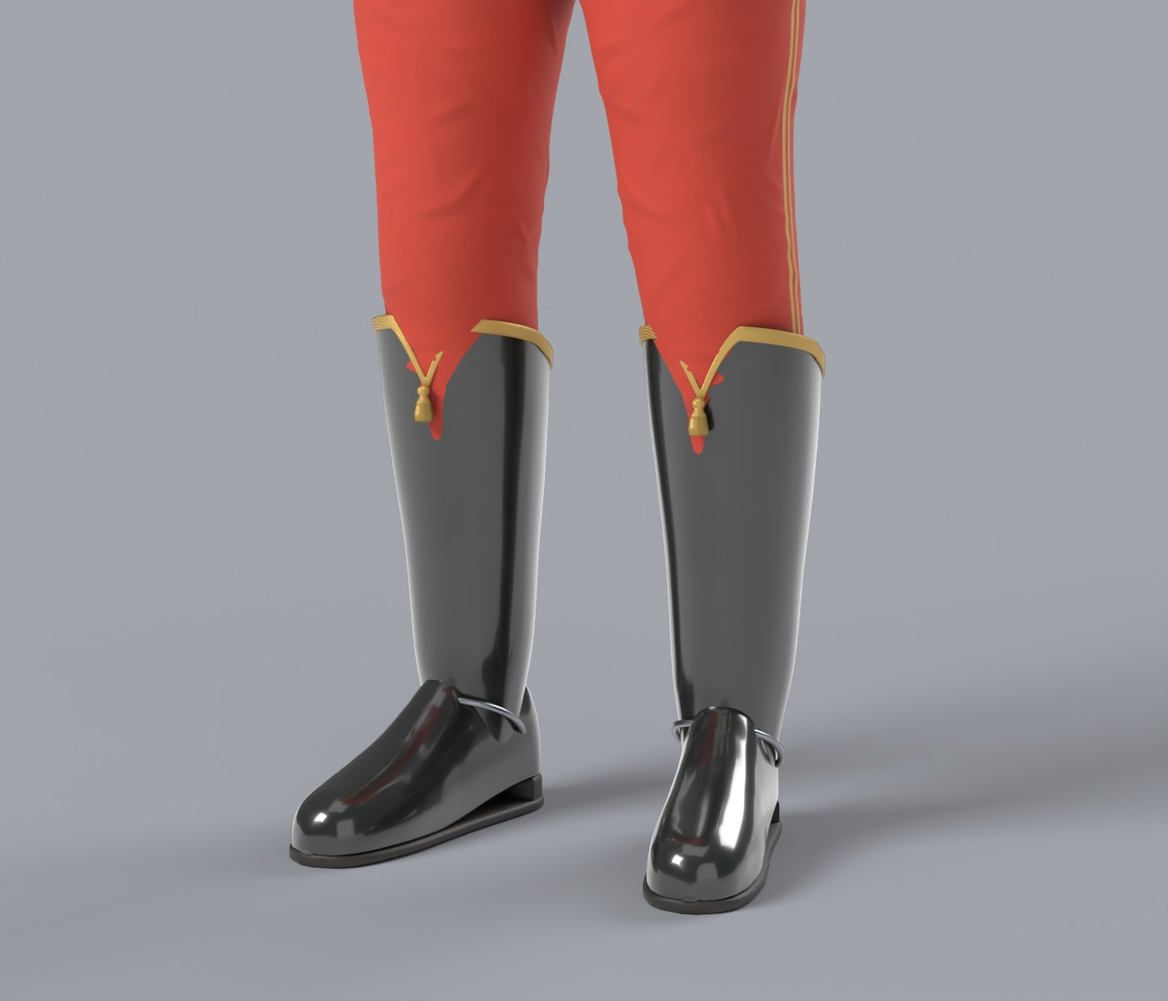
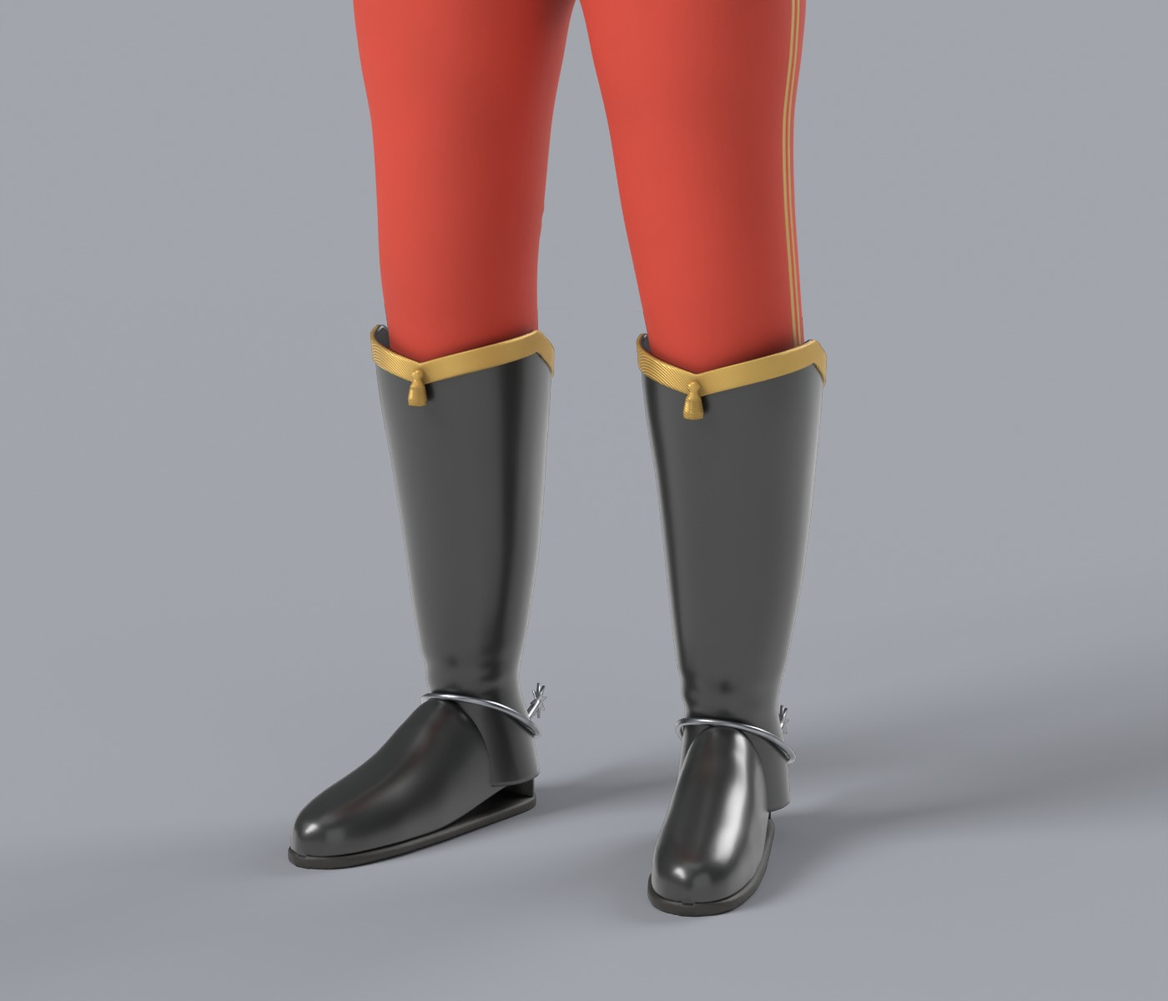
art(#33): guard officer -- correction round pictures, mesh stats and provenance: one deep fur cuff per empty sleeve, all 72 parts closed; IoU 0.893 / 0.882 / 0.906 (the sheet's outline wants the stand-off this round removed); before_after.jpg

diff --git a/art/characters/french-imperial-guard/previews/index.html b/art/characters/french-imperial-guard/previews/index.html
@@ -28,8 +28,16 @@
 
   <h2>Reference sheet vs model</h2>
   <p>Top: the reference (Gemini-generated turnaround). Bottom: the model re-shot with orthographic cameras in the sheet's own framing.
-     Silhouette IoU front <b id="iou-f">0.910</b>, side <b id="iou-s">0.901</b>, back <b id="iou-b">0.904</b>.</p>
+     Silhouette IoU front <b id="iou-f">0.893</b>, side <b id="iou-s">0.882</b>, back <b id="iou-b">0.906</b>
+     (stage 1: 0.910 / 0.901 / 0.904; the sheet's outline carries a pelisse standing several centimetres off the body, which this
+     round removed on purpose -- see <code>PROVENANCE.md</code>).</p>
   <figure><img src="sheet_vs_reference.png" alt="Reference sheet above the model's re-shoot"><figcaption>Reference above the model</figcaption></figure>
+  <h2>Correction round: stage 1 against now</h2>
+  <p>The one correction round after the stage-1 review (<code>review_stage1.md</code>): the pelisse rebuilt to lie on the body (its
+     surface carried onto the dolman's own trunk and sleeve), soft feather plumes, a front-only peak, boots, fur, sash, cuffs and
+     chevrons, then the shako's ornament, the back and chest cords, hair and the breeches' knots.</p>
+  <figure><img src="before_after.jpg" alt="Stage 1 above the correction round"><figcaption>Top: stage 1 (commit ac3e2ab). Bottom: after the correction round</figcaption></figure>
+
   <h2>Silhouette overlay</h2>
   <figure><img src="sheet_overlay.png" alt="Silhouette overlay"><figcaption>Grey both, red reference only, blue model only</figcaption></figure>
   <h2>The sheet's figure mask</h2>
@@ -46,10 +54,10 @@
     <figure><img src="hero.jpg" alt="Three-quarter front"><figcaption>Three-quarter front</figcaption></figure>
     <figure><img src="pelisse.jpg" alt="The pelisse from behind his left shoulder"><figcaption>The pelisse, from behind his left shoulder</figcaption></figure>
     <figure><img src="torso_front.jpg" alt="Torso, front"><figcaption>Frogging, buttons, cross-belt, barrel sash, cuffs</figcaption></figure>
-    <figure><img src="torso_back.jpg" alt="Torso, back"><figcaption>Back piping, the pelisse's diagonal edge, the empty sleeves</figcaption></figure>
-    <figure><img src="head.jpg" alt="Head"><figcaption>Shako, plumes, cords, chin scales, moustache</figcaption></figure>
+    <figure><img src="torso_back.jpg" alt="Torso, back"><figcaption>Back piping on both sides of the pelisse's diagonal fur, the two empty sleeves</figcaption></figure>
+    <figure><img src="head.jpg" alt="Head"><figcaption>Shako: front-only peak, eagle plate, two festoons, chinscales from side bosses; soft plumes</figcaption></figure>
     <figure><img src="head_side.jpg" alt="Head in profile"><figcaption>Head in profile</figcaption></figure>
-    <figure><img src="boots.jpg" alt="Boots"><figcaption>Hessian boots: V notch, lace edging, tassel, spurs</figcaption></figure>
+    <figure><img src="boots.jpg" alt="Boots"><figcaption>Hessian boots: the scalloped top in wide gold lace, the tassel at its point, spurs</figcaption></figure>
     <figure><img src="elevated.jpg" alt="Elevated view"><figcaption>Elevated</figcaption></figure>
     <figure><img src="top.jpg" alt="Top-down"><figcaption>Straight down (the game camera)</figcaption></figure>
   </div>

diff --git a/art/characters/french-imperial-guard/scripts/assemble.py b/art/characters/french-imperial-guard/scripts/assemble.py
@@ -626,15 +626,14 @@ def build_empty_sleeve(name, sl, M, coll, seed=15):
     creases = lambda u, al: (0.0035 * np.sin(2.0 * al) ** 2 * np.sin(3.0 * al + 1.3 * seed + 2.0 * u)
                              - 0.0025 * np.exp(-((wrap(al - al_c) - 0.4) / 0.25) ** 2) * np.clip(u / 0.2, 0, 1))
     swept(name, c, radii, n_u=48, flat=flats, up=Nn, disp=creases, attrs=dict(braid=lace), mat=M["pelisse"], coll=coll)
-    # the fur cuff: a soft roll round the sleeve's end (a ring following its flattened
-    # section), and a second one a little higher, so it reads as a deep fur cuff, not a drum
-    for j, back in enumerate((0.022, 0.052)):
-        k = int(np.clip((1.0 - back / Ls) * (len(c) - 1), 0, len(c) - 1))
-        al = np.linspace(0.0, TAU, 41)
-        rr = radii[k] + 0.004
-        ring = c[k] + rr * (np.cos(al)[:, None] * Nn[k] + (flats[k] * np.sin(al))[:, None] * Bn[k])
-        ring_up = unit(c[k] - ring)  # across the roll: towards the sleeve's centre line
-        fur.fur_roll(name + "_Fur_%d" % j, ring, 0.020, seed=seed + j, flat=0.75, up=ring_up, soft=FUR_PILE, mat=M["fur"], coll=coll)
+    # the fur cuff: one deep soft roll round the sleeve's end (a ring following its flattened
+    # section, wide along the sleeve), so it reads as a fur cuff, not a drum
+    k = int(np.clip((1.0 - 0.034 / Ls) * (len(c) - 1), 0, len(c) - 1))
+    al = np.linspace(0.0, TAU, 41)
+    rr = radii[k] + 0.006
+    ring = c[k] + rr * (np.cos(al)[:, None] * Nn[k] + (flats[k] * np.sin(al))[:, None] * Bn[k])
+    along = np.tile(T[k], (len(al), 1))  # the roll's wide axis lies along the sleeve
+    fur.fur_roll(name + "_Fur", ring, 0.034, seed=seed, flat=0.62, up=along, soft=FUR_PILE, mat=M["fur"], coll=coll)
 
 
 def _outward(lo, phi, t):
@@ -726,5 +725,5 @@ def build(M, dims, head, hair, plumes):
     hl = build_head(M, head, hair)
     build_shako(M, dims["shako"], hl, plumes)
     build_pelisse(F, M)
-    garment.close_holes([o for o in bpy.data.objects if o.name.startswith(("Dolman_Buttons",))])
+    garment.close_holes([o for o in bpy.data.objects if o.name.startswith(("Dolman_Buttons", "Pelisse_Buttons", "Shako_Chin_Boss"))])
     return F

diff --git a/art/characters/french-imperial-guard/scripts/guard.py b/art/characters/french-imperial-guard/scripts/guard.py
@@ -211,9 +211,9 @@ DIMS = dict(
         # sleeve behind the hip with its fur cuff at the hand's level). Centre line top ->
         # bottom, half-width along `wide` / half-depth, the fur cuff (length up from the end),
         # `face` = the broad side the chevrons are on.
-        sleeves=(dict(name="L", path=((0.360, 0.048, 1.150), (0.412, 0.060, 1.070), (0.410, 0.070, 0.990), (0.400, 0.070, 0.915)),
+        sleeves=(dict(name="L", path=((0.352, 0.052, 1.125), (0.408, 0.062, 1.060), (0.410, 0.070, 0.990), (0.400, 0.070, 0.915)),
                       a=0.068, b=0.013, wide=(0.80, -0.60, 0.0), face=(0.60, 0.80, 0.0), cuff=0.070),
-                 dict(name="R", path=((0.205, 0.100, 1.140), (0.228, 0.148, 1.045), (0.236, 0.176, 0.955), (0.240, 0.182, 0.885)),
+                 dict(name="R", path=((0.205, 0.100, 1.120), (0.228, 0.148, 1.040), (0.236, 0.176, 0.955), (0.240, 0.182, 0.885)),
                       a=0.070, b=0.013, wide=(0.92, -0.40, 0.0), face=(0.40, 0.92, 0.0), cuff=0.072)),
     ),
     shako=dict(

diff --git a/art/characters/french-imperial-guard/PROVENANCE.md b/art/characters/french-imperial-guard/PROVENANCE.md
@@ -1,5 +1,9 @@
 # Officer of the Imperial Guard light cavalry — scripted Blender model (Claude)
 
+> Correction round done 2026-10-05 (after `previews/review_stage1.md`): see "Correction round"
+> below for what changed, the numbers and what is still weak. The sections after it describe the
+> model as it now is.
+
 2026-10-05. Tracker: eriiiko/breach #33. Branch `33-french-imperial-guard`, worktree
 `.claude/worktrees/33-french-imperial-guard`. Offline asset files only. Stage 1 of the
 `scripted-character` procedure: the high-resolution source and its renders. No game model yet.
@@ -62,42 +66,75 @@ A new family: the first member is its own assembly on the kit, with its tables a
   turns into a 6 mm gold lace band, metallic and semi-gloss, with a woven ridge and a little bump.
   Dolman: 16 rows of frogging with oval eyes at both ends, hem edging, shoulder cords, the back
   piping (two curves and a centre seam with trefoil knots). Sleeves: two chevrons above the cuff.
-  Breeches: a double stripe on the outer seam, a Hungarian knot on each thigh, the seat piping with
-  trefoils. Pelisse: 12 rows on its front, two chevrons on each empty sleeve.
+  Breeches: a double stripe on the outer seam, a heavy Hungarian knot on each thigh (every line
+  doubled), the seat piping with trefoils; the breeches keep their knee and groin folds but lost
+  the all-over crumple (tight cloth). Pelisse: 12 rows on its front, two chevrons on each empty sleeve.
 - Pieces with real geometry: gilt buttons (3 columns x 16 rows), the standing collar (edged), the
-  red pointed cuffs (`dresswear.loft_region` with a free top edge, point to the front-outer side,
-  edged), the cross-belt (`dresswear.strap` across the welded front via `half_body_pn`, with a
+  red pointed cuffs (`dresswear.loft_region` with a free top edge, an 85 mm point on the outer
+  side, edged), two bold gold chevrons above each (each V three close lace lines, so they merge
+  into one wide band), the cross-belt (`dresswear.strap` across the welded front via `half_body_pn`, with a
   badge), the barrel sash (crimson cord rows, 16 gold barrels via a `barrel` attribute, a belt
   plate), the sash cords with a ring and two tassels at his right hip, the white gloves
-  (`parts.hand`, the gloved default), the Hessian boots (`dresswear.riding_boot`: foot, sole, low
-  heel, a shaft whose top edge is a table -- higher at the sides and front points, a V notch at
-  the front -- gold lace trim along it, a tassel in the notch) and spurs (`dresswear.spur`: strap,
-  neck, an 8-point star rowel).
-- Head: `parts.head` + `parts.hair` (short, sideburns, showing under the shako) and a full
-  moustache (`dresswear.swept`, flattened onto the upper lip over the face field's lip height).
+  (`parts.hand`, the gloved default), the Hessian boots (`dresswear.riding_boot`: sole, heel, a
+  slim rounded toe and a low vamp that run into the shaft at the instep; the shaft carries the
+  heel counter round the foot's back, narrows to the ankle with soft creases there, and flares a
+  little at the top; its top edge is a table -- higher at the sides, a broad scallop at the front
+  whose two arcs meet in a point -- edged in 19 mm gold lace, the tassel hanging from the point;
+  polished leather with broad soft highlights) and spurs (`dresswear.spur`: strap, neck, an
+  8-point star rowel).
+- Head: `parts.head` + `parts.hair` (short; sideburns to the jaw line; a soft, low nape edge; the
+  ears lying flatter) and a full moustache (`dresswear.swept`, flattened onto the upper lip over the
+  face field's lip height).
 - Shako (`charkit/shako.py`): an oval body flaring to the top with its section planes tilted 6 deg
-  back, a flat top, gold top band, polished peak, a gilt front plate, a red cockade with a gold
-  rim, twisted gold cords in festoons front and back, a hanging cord and tassel on his right, and
-  gilt chin scales from its sides along the cheeks and under the chin. Two plumes (`fur.plume`).
-- Pelisse (`DIMS["pelisse"]`): its own loft, centred to his left and wide enough to drape over the
-  left shoulder and upper arm like a cape (how a slung pelisse hangs: the arm is inside its body,
-  under the empty armhole), cut by `loft_region` between a front edge just left of his centre front
-  and an edge that runs diagonally across his back from the nape to his right hip; hem 1.06 m at
-  the back, 1.095 m at the front. Fur (`charkit/fur.py`): flattened tufted rolls along the front
-  edge, the hem and the diagonal back edge, and a shawl collar (`fur.fur_patch`) lying over the
-  left shoulder and round the back of the neck.
-- The two empty sleeves (ruling 2): LEFT hangs from the shoulder down the outside of the cape,
-  beside the arm, its fur cuff at the wrist (where the front view draws fur outside the arm and
-  the side view fur at the wrist). RIGHT hangs out from under the hem behind his left hip, between
-  the hip and the arm (where the front and the back views both draw a dark piece ending in fur, the
-  back view with chevrons, and the side view a fur cuff behind the hip). Both are flattened tubes
-  (`dresswear.swept`) with gold chevrons on their broad face and a fur cuff.
+  back, a flat top, gold top band and a gold welt cord round the crown's rim, a FRONT-ONLY peak
+  (over the eyes, ending at the temples, angled down ~22 deg, glossy, a thin gold edge), a shaped
+  gilt plate with a simple raised eagle (body, head, spread wings, tail), a red cockade with a gold
+  rim, twisted gold cords in two front festoons (a high one and a heavy lower swag) and one at the
+  back, a hanging cord and tassel on his right, and scaled gilt chin scales hanging from round
+  side bosses and lying along the jaw. Two plumes (`fur.plume_soft`).
+- Pelisse (`DIMS["pelisse"]`, `assemble.PelisseSurface`; rebuilt in the correction round): it LIES
+  ON the body by construction. A carrier loft round the trunk and the left arm only parametrises it
+  ((u, v): hem -> neck, back edge -> front edge); every carrier point is carried in along the
+  carrier's normal (damped, step-limited sphere tracing) onto the zero set of
+  `smin(sdf_trunk - clear_body, sdf_sleeve - clear_arm, blend)` -- the dolman's own trunk and left
+  sleeve lofts, filleted over the shoulder (3 cm) and bridged below the armpit where it hangs
+  across from the side to the arm (12 cm). The trunk distance is measured in its level section at
+  each height, and below the chest the front and back depths are held at the chest's (the cloth
+  hangs plumb from the chest and shoulder blades instead of following the waist in). It is
+  FUR-LINED: 18 mm of cloth and lining (`thick`); its outer surface stands 30 mm off the trunk loft
+  at the front and side, 20-34 mm at the back, 37 mm off the sleeve loft, so 2-15 mm stay between
+  it and the dolman (which stands up to 8 mm off the trunk with its folds, 4 mm off the sleeve).
+  Edges: the front edge from the left of the neck diagonally down the chest (x 0.094 m at the neck
+  to 0.142 m at 1.10 m); the edge across the back from the left of the neck to his right hip; the
+  hem at 1.06 m across the back, rising round the arm to elbow height (1.135 m) and back to 1.10 m
+  at the front corner. A few shallow vertical folds near the hem where it hangs free. Lace on it:
+  its own frogging (12 rows with loops, a gilt button at each inner loop, placed on the carried
+  surface), and on its back panel the dolman's back piping (both curved side-back seams, the centre
+  seam, trefoils), so the back reads braided on both sides of the diagonal fur. A gold shoulder
+  cord on its shoulder.
+- Fur (`charkit/fur.py`): ONE roll round the pelisse's whole edge -- hem, front edge, a round
+  collar roll hugging the back and left of the neck (its centre on a ring 99 mm from the neck's
+  axis at 1.568 m), the diagonal across the back -- radius and flattening varying per stretch
+  (`fur_roll(scale=, flat=)`), corners rounded. Its surface is a fine directional pile
+  (`fur.pile_field`: vectorised random plane waves, short across the pile, long along it), no
+  tufts; the strands are in the material.
+- The two empty sleeves (a slung pelisse has both sleeves empty), each hanging out from under the
+  hem: LEFT from behind the elbow down outside the forearm, its cuff outside the hand (the back
+  view's sleeve with chevrons and a fur cuff there, the front view's dark piece with fur outside
+  the forearm); RIGHT behind his left hip, between the hip and the arm (the front view's dark
+  piece there, the side view's sleeve behind the hip). Limp: flattened, wider at the top, soft
+  lengthwise creases; two bold chevrons on the broad face; the fur cuff as two soft rolls round
+  the sleeve's end.
+- Plumes (`fur.plume_soft`): each a smooth tapered ovoid on a curved stem, narrow at the socket,
+  widest about two thirds up, its edge a fine hairy pile (`pile_field`, barbs 3-6 mm across lying
+  up the plume, 1.6 mm grid). The green variant's red tip blends over 16 % of the plume's length.
 - Materials (`charkit/dressmat.py` + `wearmat`), one per region, the contract with the game step:
   `guard_skin`, `guard_hair`, `guard_eye`, `guard_dolman`, `guard_pelisse`, `guard_cuff`,
   `guard_breeches`, `guard_fur`, `guard_braid` (free-standing gold: cords, tassels, belt, boot
   trim, shako band), `guard_metal` (gilt), `guard_steel` (spurs), `guard_sash`, `guard_boot`,
   `guard_sole`, `guard_glove`, `guard_shako`, `guard_peak`, `guard_cockade`, `guard_plume_a`,
-  `guard_plume_b`. Roughness: boots 0.16 and peak 0.12 with a clear coat, gilt metal 0.26, gold
+  `guard_plume_b`. Roughness: boots 0.30 with a soft clear coat (0.35, coat roughness 0.24), peak
+  0.12 with a clear coat, gilt metal 0.26, gold
   lace 0.42-0.44, cloth 0.82, fur 0.92, feathers 0.85, gloves 0.62.
 
 ## Measured
@@ -105,54 +142,61 @@ A new family: the first member is its own assembly on the kit, with its tables a
 - Scale: soles on row 816 (front view, on the sheet's floor line), eye line on row 260 (the front
   view's pupils), eye line = 0.935 x 1.80 = 1.683 m -> 0.0030270 m per pixel, crown of the skull on
   row 221.4 (inside the shako, 32 px above its peak).
-- Silhouette IoU in the sheet's framing (`previews/sheet_overlay.png`, full resolution): front
-  0.910, side 0.901, back 0.904. Where it differs and why:
-  - The sheet's front and back views disagree on his left outline at 1.0-1.4 m (front 0.354 m at
-    1.30 m and 0.50 m at 1.06 m, back 0.321 and 0.39): an orthographic front and back silhouette
-    are mirror images, so no 3-D garment fits both; the model sits between them (the cape and the
-    left empty sleeve), costing front and back each about 1-2 %.
-  - The sheet's legs are 2 px off symmetric (his right leg nearer the centre); the model is
-    symmetric (panel centre 180 splits it).
-  - The side view's fore-and-aft plume pair is fitted by leaning the black plume forward (it stays
-    on his right in front and back), so the plumes cost little; their spiky tufted outline against
-    the sheet's softer feathering is a few px all round.
-  - The sheet's dark piece at his left hip (front view x 0.19-0.25 m, z 0.94-1.06 m) is matched
-    by the right empty sleeve only in part.
-  - Edge bands of 1-3 px all round (the sheet's outlines, fur and fringe), the gloves' fingers.
-- `source/mesh_stats.json`: 61 mesh objects, 843,632 source triangles, 1,936,210 after modifiers
-  (see the file for the split). All 61 evaluated parts closed; all face outward (the two eyeballs
+- Silhouette IoU in the sheet's framing (`previews/sheet_overlay.png`, full resolution), after the
+  correction round: front 0.893, side 0.882, back 0.906 (stage 1: 0.910 / 0.901 / 0.904). The
+  front and side fall BELOW 0.90, knowingly. The sheet's own outline carries a pelisse that stands
+  well off the body -- the stage-1 drum matched it; a pelisse lying on the shoulder and arm does
+  not. What is left, per view (full table in the build log):
+  - front, his left at 1.22-1.42 m: the sheet's shoulder and upper arm are 2-3 cm wider than the
+    model's (the sheet's left upper arm is 5 cm wider than its right); at 1.02-1.10 m the sheet's
+    piece outside the forearm reaches 0.49-0.51 m, the outer empty sleeve 0.46-0.47 m;
+  - side: the sheet's torso is a deep block from 1.10 to 1.26 m (front -0.179, back +0.185) where
+    the model's pelisse lies 2-4 cm inside it front and back; above 1.38 m the model's collar and
+    diagonal fur stand 1-3 cm proud of the sheet's;
+  - back: gained over stage 1 where the shell's stand-off was (left side 1.06-1.26 m), lost a
+    little at the outer sleeve and cuff;
+  - unchanged from stage 1: the sheet's legs 2 px off symmetric, edge bands of 1-3 px, the
+    gloves' fingers.
+  Raising the pelisse's clearance to meet the sheet's outline would bring back the stand-off that
+  this round existed to remove; the brief's "no more than about 1-1.5 cm" over the dolman was kept
+  (2-15 mm everywhere, inside a fur-lined garment 18 mm thick).
+- `source/mesh_stats.json`: 72 mesh objects, 913,846 source triangles, 1,959,686 after modifiers
+  (see the file for the split). All 72 evaluated parts closed; all face outward (the two eyeballs
   are built inward and flipped by the check).
-- Build: 19 s for the geometry; the full build with every render about 2.6 minutes (OptiX).
+- Build: 19 s for the geometry; the full build with every render 2.6 minutes (OptiX); the green
+  variant's hero 33 s; a draft 9 s (the per-tuft loops of the old fur and plumes are gone).
 
 ## Checklist (from zoomed crops of the sheet)
 
 Shako
 - black body, wider at the top — present
 - gold top band — present
-- black leather peak — present (polished)
-- gold front plate (a crowned plate) — simplified: a domed oval gilt plate, no relief
+- black leather peak — present: front only, over the eyes to the temples, angled down, glossy, thin gold edge (round 2)
+- gold front plate (a crowned plate) — simplified: a shaped gilt plate with a simple raised eagle (body, head, wings, tail; round 2)
 - cockade at the top front (red, gold rim) — present
-- plaited gold cords in festoons, front and back — present (twisted cord, one festoon each)
+- plaited gold cords in festoons, front and back — present (twisted cord; two festoons at the front, one at the back; no flounders)
 - cord and tassel hanging on his right side — present
-- gold chin chain — simplified: a flat gilt strap with a scale ripple, not linked scales
-- two plumes, black on his right, red on his left — present (side view: the black one leans forward)
+- gold chin chain — simplified: a flat scaled gilt band hanging from round side bosses along the jaw (round 2), not linked scales
+- two plumes, black on his right, red on his left — present: soft tapered ovoids with a fine hairy edge (round 2); side view: the black one leans forward
 
 Head
 - face — simplified (the male worker's stylised face field)
 - full moustache — present (one attempt rebuilt: thicker and level after the first drooped)
-- sideburns — present (hairline in front of the ears)
-- short brown hair under the shako at the sides and back — present
+- sideburns — present, to the jaw line (round 2)
+- short brown hair under the shako at the sides and back — present, a soft low nape edge (round 2)
 
 Dolman
 - dark navy body and sleeves — present
 - standing collar edged in gold — present (closed, no front gap)
-- rows of gold frogging across the chest with loops — present as colour (16 rows, oval eyes)
+- rows of gold frogging across the chest with loops — present as colour with stronger relief (16 rows, oval eyes, narrowing to the waist); not raised geometry
 - columns of gilt buttons — present (3 x 16)
 - gold edging at the hem — present (colour)
-- pointed red cuffs — present (point to the front-outer side), edged in gold
-- gold chevron lace above the cuffs — present (2 chevrons, colour)
-- gold piping with small knots on the back seams — present (colour)
-- shoulder cords — simplified: a lace line along each shoulder top, colour only
+- pointed red cuffs — present (an 85 mm point on the outer side), edged in gold (round 2)
+- gold chevron lace above the cuffs — present: 2 bold Vs (round 2)
+- gold piping with small knots on the back seams — present (colour), on BOTH sides of the pelisse's diagonal fur (round 2)
+- shoulder cords — present: a gold cord from the collar to each shoulder point (the left one on the pelisse; round 2)
+
+- the pelisse's cord from the right of the collar across the chest, with a medallion — present (round 2)
 
 Cross-belt
 - gold, over one shoulder to the opposite hip — present, from his LEFT shoulder to his RIGHT hip,
@@ -161,30 +205,30 @@ Cross-belt
 - small badge on it — simplified (a gilt oval)
 
 Pelisse
-- navy, slung on his left shoulder, hanging down the left side and across the back — present
-- brown fur collar — present (a shawl collar on the shoulder and round the nape)
-- fur on the front edge, the hem and the edge across the back — present
-- fur cuffs — present (on both empty sleeves)
-- its own gold braid rows on the front — present (12 rows, colour)
+- navy, slung on his left shoulder, hanging down the left side and across the back — present, lying ON the shoulder, arm and back (round 2)
+- brown fur collar — present: a round roll round the back and left of the neck (round 2)
+- fur on the front edge, the hem and the edge across the back — present: one roll round the whole edge, the front edge diagonal, soft corners, dark brown, fine pile (round 2)
+- fur cuffs — present (one deep soft roll on each empty sleeve)
+- its own gold braid rows on the front — present (12 rows with loops, a gilt button at each inner loop)
 - lace knots by the diagonal edge near the back hem (back view) — absent
-- empty sleeves — present (two, see How it is built)
+- empty sleeves — present (two, from under the hem: outside the forearm and behind the hip; still stiff, see below)
 
 Waist
-- crimson and gold barrel sash — present
+- crimson and gold barrel sash — present, dark crimson-maroon (round 2)
 - belt plate — simplified (a plain gilt plate)
 - cords with a ring and two tassels at his right hip — present
 
 Breeches
 - red — present
 - gold stripe down each outer seam — present (double, as the side view draws it)
-- Hungarian knot on the front of each thigh — simplified (a stylised two-loop knot in colour)
+- Hungarian knot on the front of each thigh — simplified (a stylised two-loop knot in heavy doubled braid, colour)
 - gold piping on the seat with small knots — present (colour)
 
 Boots
 - black polished Hessians to just under the knee — present
-- top edge cut to a V in front — present
-- gold lace edging along the top — present (a thin gold band)
-- small gold tassel in the V — present
+- top edge cut to a V in front — present: a broad scallop whose two arcs meet in a point (round 2)
+- gold lace edging along the top — present (a 19 mm gold band)
+- small gold tassel in the V — present, hanging from the point on the leather
 - low heel — present
 - spurs (strap, neck, rowel) — present
 
@@ -194,21 +238,63 @@ Gloves
 Nothing is modelled that neither reference shows. The saber section, the saber and its slings and
 the sabretache (the painting) are left out on purpose.
 
+## Correction round (2026-10-05)
+
+After the independent stage-1 review (`previews/review_stage1.md`), one correction round, in its
+order (stage 1 is commit `ac3e2ab`; `previews/before_after.jpg` puts stage 1 above the result for
+the hero, the back three-quarter and the top view):
+
+- A1 the pelisse lies on the body: rebuilt as a surface derived from the dolman's trunk and left
+  sleeve (see How it is built), fur-lined, one fur roll round its whole edge with a round collar
+  roll, the diagonal front edge, soft corners, its back panel braided like the dolman's back. Both
+  empty sleeves now hang from under the hem (one outside the forearm, one behind the hip: the
+  front IoU needs the outer one, and the sheet's front and back views both draw it).
+- A2 plumes: `fur.plume_soft`, smooth ovoids with a fine hairy pile; round fuzzy tufts from above.
+  Green variant: the red tip blends over 16 % of the plume.
+- A3 the peak: front only, angled down ~22 deg, ending at the temples, glossy, a thin gold edge.
+- A4 boots: a slimmer toe and a low vamp running into the shaft at the instep, the shaft carrying
+  the heel and narrowing to the ankle, soft ankle creases, polished leather with broad highlights
+  (roughness 0.30, a soft coat), the top a broad scallop in 19 mm gold lace with the tassel at its
+  point, the shaft's top flared so the breeches no longer show through it.
+- A5 fur: rich dark brown (`FUR` #2a1d13 / `FUR_TIP` #5c4630), a fine directional pile, no tufts.
+  Sash: dark crimson-maroon (`SASH` #5a1418).
+- A6 cuffs: an 85 mm point on the outer side; two bold gold chevrons on every sleeve, the dolman's
+  and the empty ones.
+- B1 shoulder cords on both shoulders, the cord across the chest with its medallion; the back
+  piping on both sides of the diagonal. B2 stronger lace relief, the chest panel narrowing to the
+  waist, the pelisse rows with a gilt button at each. B3 the eagle plate, a second festoon,
+  chinscales from side bosses lying along the jaw, a gold welt round the crown. B4 heavy doubled
+  Hungarian knots, no all-over crumple on the breeches. B5 sideburns to the jaw, a soft nape,
+  flatter ears. B6 the turnaround framed for the plumes (`TURN_HEIGHT`).
+- Kit, all additive with defaults that reproduce the earlier output, in modules only this
+  character uses: `fur.pile_field`, `fur.plume_soft`, `fur.fur_roll(scale=, soft=, per-point
+  flat)`; `dressmat.mat_wool(relief=, relief_d=)`, `mat_polished(coat_rough=, crease=)`,
+  `mat_feather(blend=)`; `dresswear.riding_boot` top `notch_exp` and `creases`; `shako` peak
+  `droop_exp` / `shape` / `edge`, plate `n` / `dome` / `eagle`, cord `festoons`, `welt`, chain
+  `boss` / `scales`; and `workerbuild.run` reads an optional `TURN_HEIGHT`. No module the other
+  characters' geometry comes from (`kit`, `workwear`, `parts`, `garment`, `studio`, `sheetfit`)
+  was touched.
+
 ## Not done, and known weaknesses
 
+Worst first, after the correction round:
+
+- IoU front 0.893 and side 0.882, below the 0.90 the round was asked to keep: the sheet's outline
+  wants a pelisse standing off the body (see Measured). `sheet_overlay.png`.
+- The empty sleeves still read stiff: flat slabs with straight edges, their tops ending under the
+  hem with a visible corner; limp drape (a bend, a fold-over) is not there. `torso_back.jpg`,
+  `pelisse.jpg`.
+- The boots are still two pieces to the eye: the foot comes out of the shaft at a crease line on
+  the instep and reads a little like an overshoe; the ankle creases hardly show. `boots.jpg`.
+- The pelisse over the left arm bridges the gap under the armpit down to the hem, so from the
+  front and from above the left arm and side read as one wide mass (the sheet's front view shows
+  the same panel to the arm, but less of it). `torso_front.jpg`, `top.jpg`.
+- The fur collar sits low round the neck (its top at about 1.60 m) and the diagonal fur makes a
+  loop where it leaves the collar at the back. `head_side.jpg`, `torso_back.jpg`.
+- The chest braid is still colour on the cloth with a stronger bump, not raised cord; the frogging
+  eyes are blobs close up. `torso_front.jpg`, `head.jpg`.
+- The breeches have no knee, calf or seat modelling of their own (only the outline); the outer
+  stripes still do not show at the leg's edge from front and back. `turnaround.png`.
+- Not done: the black waist belt (left out, as briefed); cord flounders on the shako.
 - The source has no UVs and no rig (the game-ready step is next). Pieces overlap rather than weld,
-  except the body's two halves.
-- The pelisse reads as a bell-shaped cape round the left arm, heavier than the sheet's jacket
-  lying over the shoulder; the left empty sleeve shows mainly as a fur flap below the cape's hem.
-  The right empty sleeve, hanging behind the left hip, looks like a stump from behind.
-- The plumes are spiky tufted shells: from close they read as feather dusters, not soft ostrich
-  plumes. Two attempts made (big tufts read as cauliflower; fine spikes as now).
-- The fur is a tufted displacement plus a strand shader: convincing as a mass, lumpy along the
-  rolls' edges.
-- Lace drawn as an attribute is faceted where the 4 mm grid is coarse against a 6 mm band (the
-  Hungarian knots and seat piping show stepped edges close up); the frogging's eyes are blobs.
-- The face is the worker's stylised face; the shako plate is a plain oval; the chin scales are a
-  smooth strap.
-- The boots' foot and shaft meet in a crease at the instep; the arch shows a dark slot between
-  the heel block and the sole.
-- Materials are Cycles node graphs; the game step will bake them.
+  except the body's two halves. Materials are Cycles node graphs; the game step will bake them.
